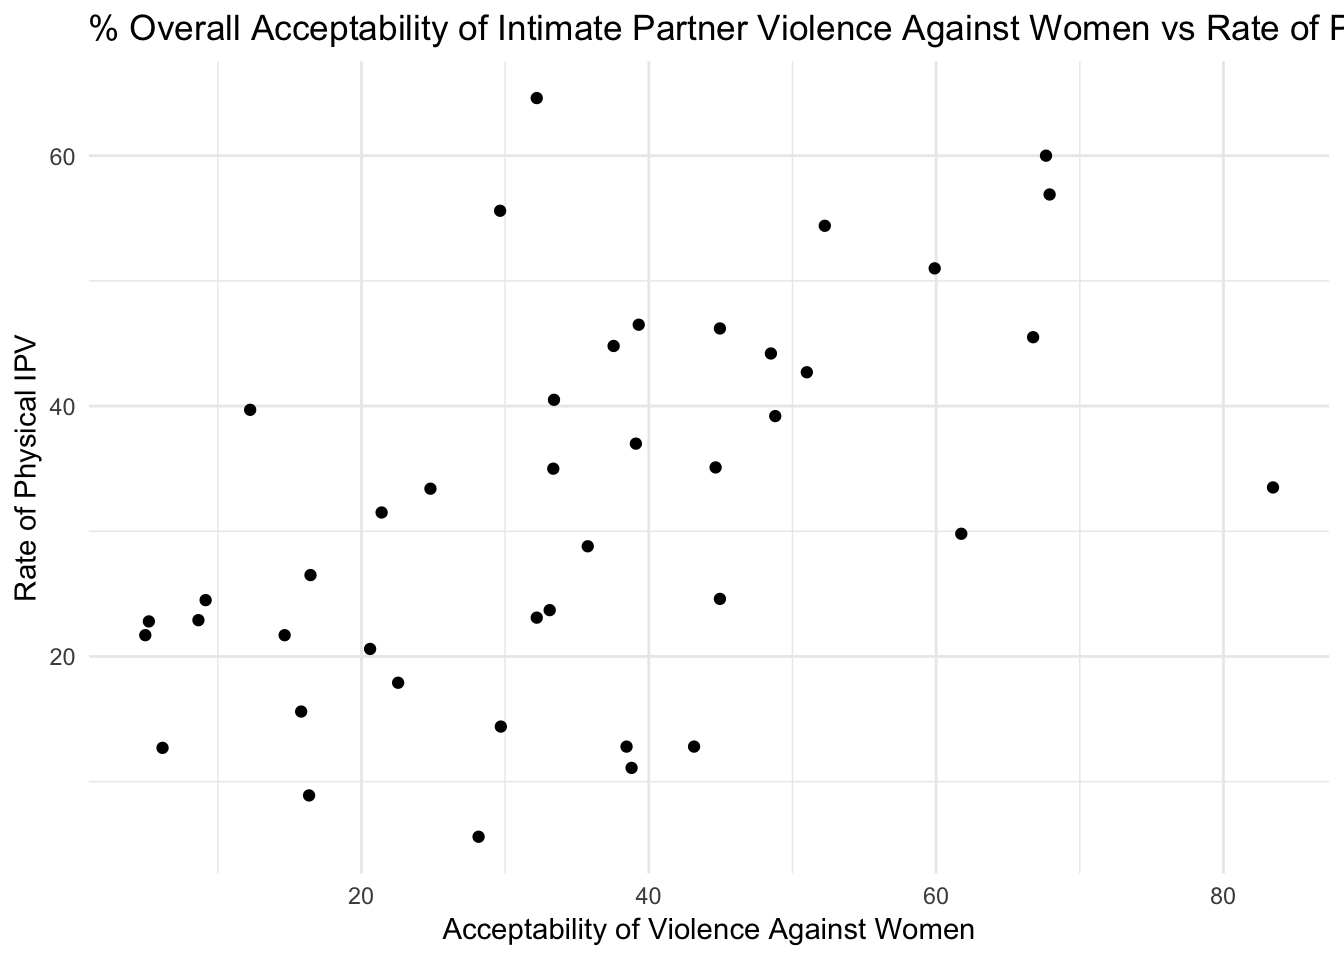
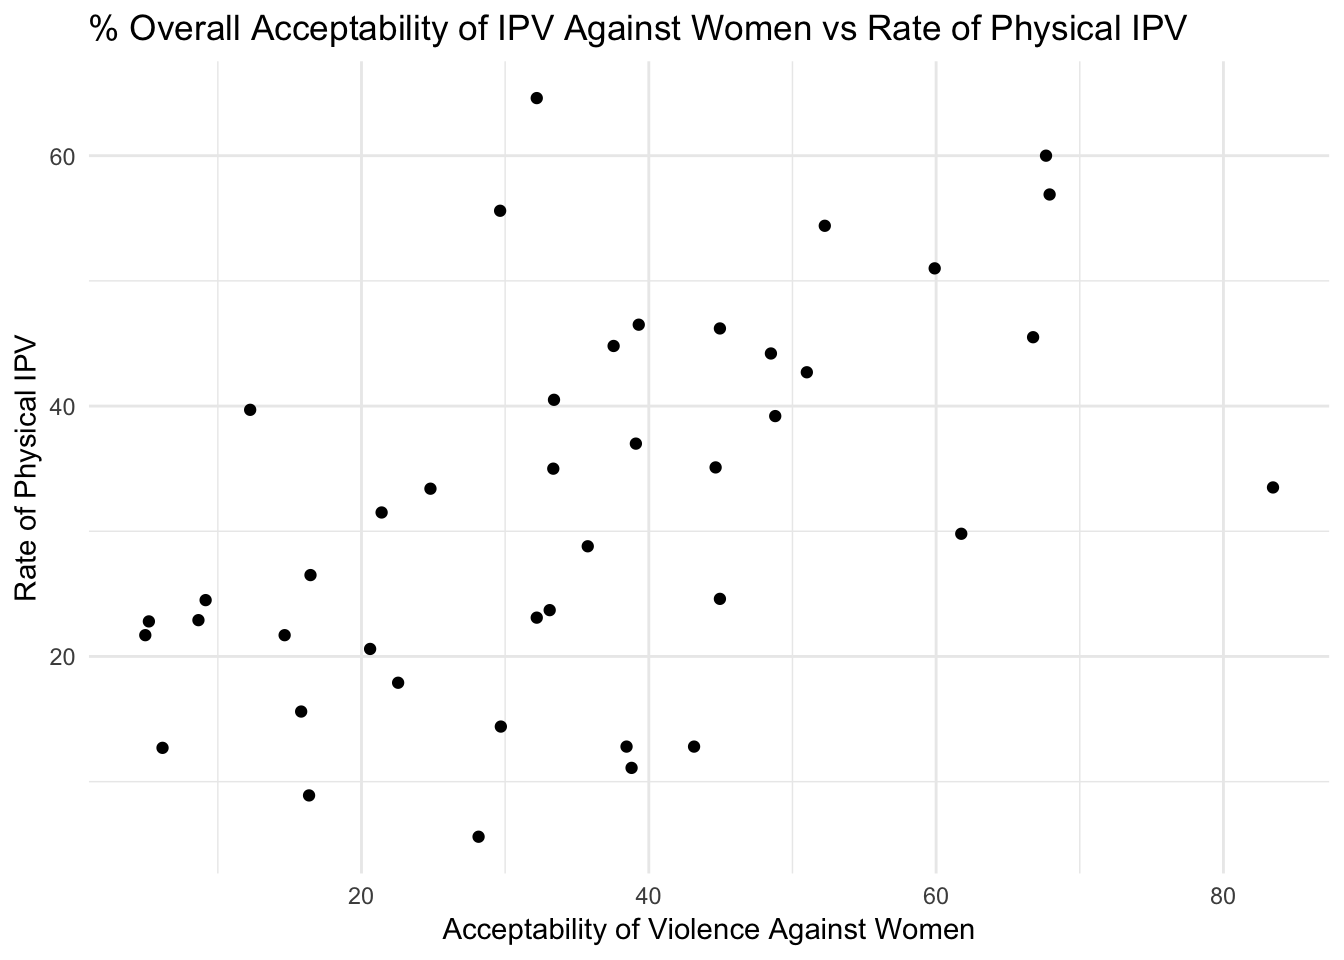
Add files via upload

Changed region(s): [[0.375, 0.0, 1.0, 0.0625]]

diff --git a/index.html b/index.html
@@ -285,7 +285,7 @@ df.stats.tidy &lt;- df.sum %&gt;% gather(stat, val) %&gt;%
 <h4>Preliminary Analysis</h4>
 <p>Given that my data involves the combination of two data sets, as part of a preliminary analysis, I will examine the correlation between norms related to IPV and actual prevalence of physical IPV in order to assess whether the findings from past literature hold true for my data set.</p>
 <p>Below is a scatterplot depicting the relationship between the percentage of overall acceptability of IPV and the actual prevalence rate.</p>
-<pre class="r"><code>ggplot(project, aes(x = tnorm, y = PV)) + geom_point() + theme_minimal() + labs(title =&quot;% Overall Acceptability of Intimate Partner Violence Against Women vs Rate of Physical IPV&quot;, x = &quot;Acceptability of Violence Against Women&quot;, y = &quot;Rate of Physical IPV&quot;) </code></pre>
+<pre class="r"><code>ggplot(project, aes(x = tnorm, y = PV)) + geom_point() + theme_minimal() + labs(title =&quot;% Overall Acceptability of IPV Against Women vs Rate of Physical IPV&quot;, x = &quot;Acceptability of Violence Against Women&quot;, y = &quot;Rate of Physical IPV&quot;) </code></pre>
 <p><img src="index_files/figure-html/unnamed-chunk-4-1.png" width="672" /></p>
 <p>We can see from the scatterplot that there appears to be a moderately strong positive linear correlation between the norms of acceptability of IPV against women and the actual rate of physical IPV for the countries in the data set.</p>
 <p>Next, we will conduct a simple linear regression to further test the relationship between these quantitative variables.</p>
